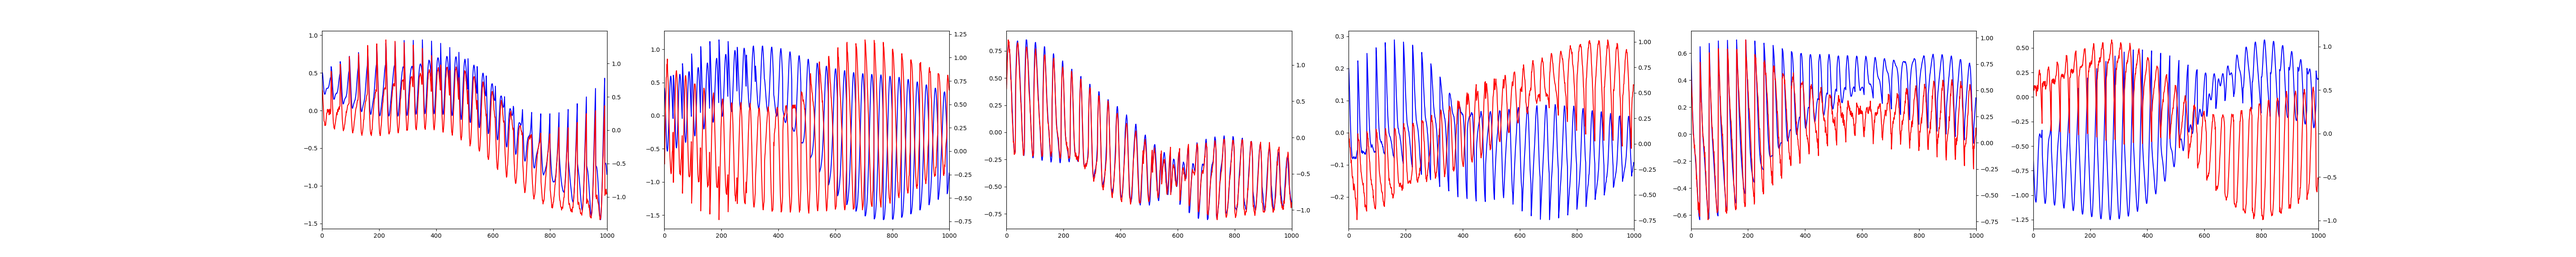
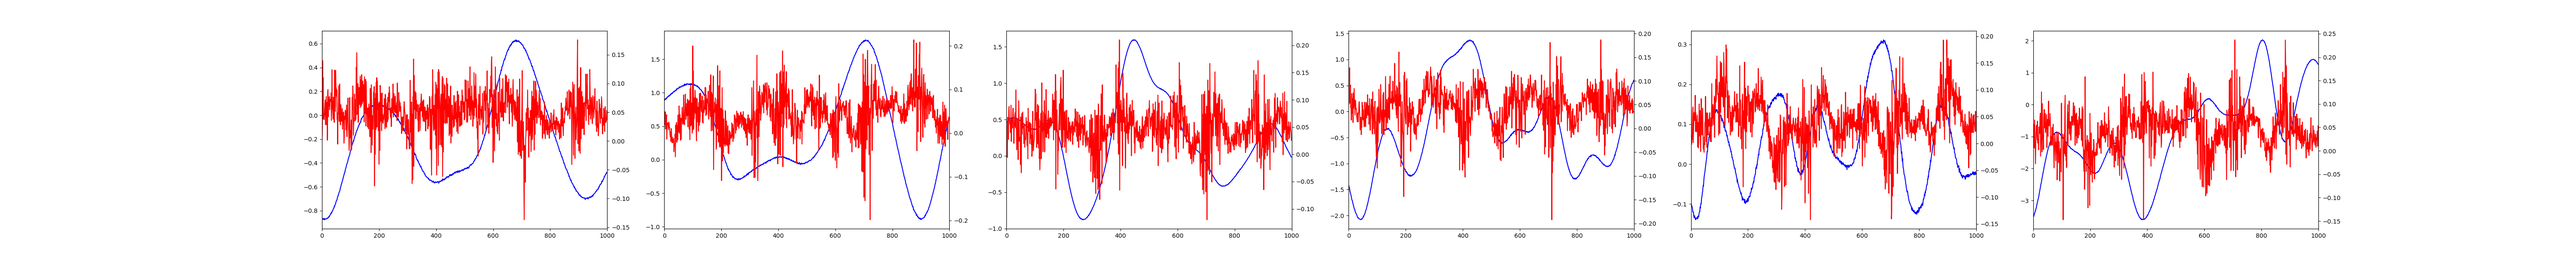
push to see what changes have been made

Changed region(s): [[0.1247, 0.18, 0.9038, 0.84]]

diff --git a/main.py b/main.py
@@ -13,6 +13,8 @@ import sys
 from jax.config import config
 config.update("jax_enable_x64", True)
 
+from sklearn.linear_model import LinearRegression as LR
+
 ###DEBUG##############################
 #config.update('jax_disable_jit', True)
 #config.update("jax_debug_nans", True)
@@ -154,6 +156,13 @@ def main():
     #                cmap='viridis')
     #plt.show()
 
+    # measure nonlinearity
+    nl_metrics = []
+    for i in range(args.num_data):
+        nl_metrics.append(LR().fit(s[i, :, :].T,  z[i, :, :].T).score(
+            s[i, :, :].T, z[i, :, :].T))
+    print("Non-linearity metric: ", jnp.mean(jnp.array(nl_metrics)))
+
     # create folder to save checkpoints    
     if not os.path.isdir(args.out_dir):
         os.mkdir(args.out_dir)
@@ -168,4 +177,3 @@ def main():
 
 if __name__=="__main__":
     sys.exit(main())
-

diff --git a/nn.py b/nn.py
@@ -43,8 +43,8 @@ def xtanh(slope):
 
 def unif_nica_layer(N, M, key, iter_4_cond=1e4):
     def _gen_matrix(N, M, key):
-        A = jrandom.uniform(key, (N, M), minval=0., maxval=2.) - 1.
-        A = l2normalize(A)
+        A = jrandom.uniform(key, (N, M), minval=-2., maxval=2.)
+        #A = l2normalize(A)
         _cond = jnp.linalg.cond(A)
         return A, _cond
 
@@ -110,7 +110,7 @@ def nica_mlp(params, s, activation='xtanh', slope=0.1):
     return z
 
 
-def encoder_mlp(params, x, activation='xtanh', slope=0.1):
+def encoder_mlp(params, x, activation='xtanh', slope=0.01):
     """Forward pass for encoder MLP that predicts likelihood natparams.
     Args:
         params (list): nested list where each element is a list of weight

diff --git a/train.py b/train.py
@@ -286,7 +286,7 @@ def train(x, z, s, t, tp_mean_fn, tp_kernel_fn, params, args, key):
             print("*Epoch: [{0}/{1}]\t"
                   "Minibatch: [{2}/{3}]\t"
                   "ELBO: {4}\t"
-                  "MCC: {5}".format(epoch, start_epoch+num_epochs-1, it,
+                  "MCC: {5}".format(epoch, num_epochs-1, it,
                                     num_minibs-1, -nvlb, minib_avg_mcc))
 
             ## plot regularly
